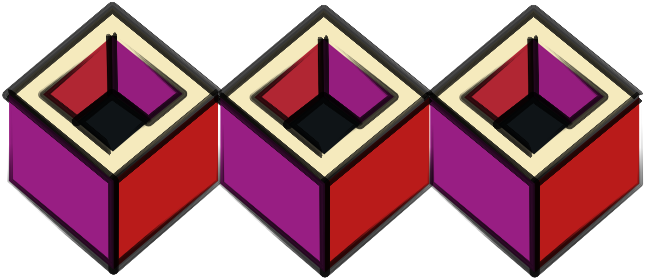
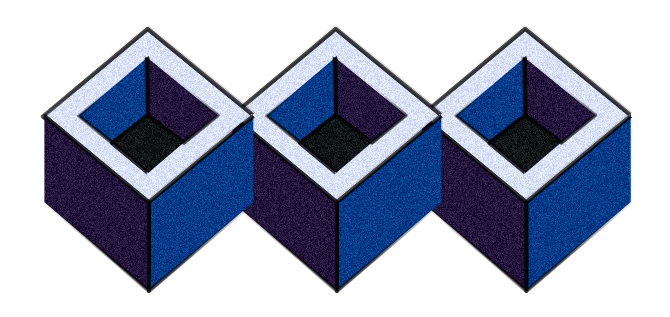
Updates

diff --git a/app/routes/index.tsx b/app/routes/index.tsx
@@ -8,17 +8,12 @@ import { Link, Nav } from "~/components";
 export default function Index() {
   return (
     <div>
-      <img
-        src={Sotim}
-        height="180px"
-        className="h-[180px] w-full origin-bottom object-cover"
-      />
       <Nav />
       <div className="content-container">
-        <h1 className="font-ligh mb-32 font-butler text-8xl font-bold text-primaryText">
+        <h1 className="mb-32 font-butler text-8xl font-bold text-primaryText">
           Hey, good to see you!
         </h1>
-        <section className="mb-48 grid min-h-[580px] grid-cols-[40%_60%] justify-between gap-x-6">
+        <section className="mb-24 grid grid-cols-2 justify-between gap-x-6">
           <div className="flex flex-col items-center justify-center gap-y-14">
             <h2 className="font-butler text-5xl font-light text-casualBlue 2xl:text-6xl">
               👋🏻 I'm Eli and this is my vinyl player. I created 3d model in
@@ -44,64 +39,55 @@ export default function Index() {
           {/*  height="100%"*/}
           {/*></iframe>*/}
         </section>
-        <img
-          src={Cubes}
-          width="180px"
-          className="mx-auto mb-48 2xl:w-[250px]"
-        />
-        <section className="mb-48 w-full rounded-sm bg-primaryText p-24 shadow-xl">
-          <h3 className="mb-14 w-max border-primaryText font-butler text-6xl font-semibold text-blueLight text-white 2xl:text-8xl ">
-            What to do here
-          </h3>
-          <ul className="grid grid-cols-2 items-end gap-10 text-xl">
-            <li>
-              <Link
-                href="/bike"
-                className="group flex h-[300px] rounded-sm bg-bike bg-cover bg-center shadow-xl"
-              >
-                <div className="mt-auto w-full rounded-sm bg-blueLight p-2 p-5 text-primaryText transition group-hover:bg-casualBlue group-hover:text-2xl group-hover:text-blueLight">
-                  Checkout my bike blog
-                </div>
-              </Link>
-            </li>
-            <li>
-              <Link
-                href="/about"
-                className="group flex h-[300px] rounded-sm bg-cubes bg-cover bg-center shadow-xl"
-              >
-                <div className="mt-auto w-full rounded-sm bg-blueLight p-2 p-5 text-primaryText transition group-hover:bg-casualBlue group-hover:text-2xl group-hover:text-blueLight">
-                  Know me better
-                </div>
-              </Link>
-            </li>
-            <li>
-              <Link
-                href="/bike"
-                className="group flex h-[300px] rounded-sm bg-art bg-cover bg-center shadow-xl"
-              >
-                <div className="mt-auto w-full rounded-sm bg-blueLight p-2  p-5 text-primaryText transition group-hover:bg-casualBlue group-hover:text-2xl group-hover:text-blueLight">
-                  Look at my art & projects
-                </div>
-              </Link>
-            </li>
-            <li>
-              <Link
-                href="/bike"
-                className="group flex h-[300px] rounded-sm bg-bikes bg-contain bg-center shadow-xl"
-              >
-                <div className="mt-auto w-full rounded-sm bg-blueLight p-2 p-5 text-primaryText transition group-hover:bg-casualBlue group-hover:text-2xl group-hover:text-blueLight">
-                  Don't go here
-                </div>
-              </Link>
-            </li>
-          </ul>
-        </section>
-        <img
-          src={Cubes}
-          width="180px"
-          className="mx-auto mb-48 2xl:w-[250px]"
-        />
       </div>
+      <section className="mb-48 w-full rounded-sm bg-blueNoise px-44 py-24 shadow-xl">
+        <h3 className="mb-14 w-max border-primaryText font-butler text-6xl font-semibold text-pinkLight 2xl:text-8xl ">
+          What to do here
+        </h3>
+        <ul className="grid grid-cols-2 items-end gap-10 text-xl">
+          <li>
+            <Link
+              href="/bike"
+              className="group flex h-[300px] rounded-sm bg-river bg-cover bg-center shadow-xl"
+            >
+              <div className="mt-auto w-full rounded-sm bg-blueLight p-1 p-3 text-primaryText transition group-hover:bg-casualBlue group-hover:text-blueLight">
+                Checkout my bike blog
+              </div>
+            </Link>
+          </li>
+          <li>
+            <Link
+              href="/about"
+              className="group flex h-[300px] rounded-sm bg-david bg-cover bg-center shadow-xl"
+            >
+              <div className="mt-auto w-full rounded-sm bg-blueLight p-1 p-3 text-primaryText transition group-hover:bg-casualBlue group-hover:text-blueLight">
+                Know me better
+              </div>
+            </Link>
+          </li>
+          <li>
+            <Link
+              href="/bike"
+              className="group flex h-[300px] rounded-sm bg-wall bg-cover bg-center shadow-xl"
+            >
+              <div className="mt-auto w-full rounded-sm bg-blueLight p-2 p-3 text-primaryText transition group-hover:bg-casualBlue group-hover:text-blueLight">
+                Look at my art & projects
+              </div>
+            </Link>
+          </li>
+          <li>
+            <Link
+              href="/bike"
+              className="group flex h-[300px] rounded-sm bg-hourse bg-cover bg-center shadow-xl"
+            >
+              <div className="mt-auto w-full rounded-sm bg-blueLight p-1 p-3 text-primaryText transition group-hover:bg-casualBlue group-hover:text-blueLight">
+                Don't go here
+              </div>
+            </Link>
+          </li>
+        </ul>
+      </section>
+      <img src={Cubes} width="180px" className="mx-auto mb-48 2xl:w-[250px]" />
     </div>
   );
 }

diff --git a/app/components/nav.tsx b/app/components/nav.tsx
@@ -17,41 +17,41 @@ export const Nav = () => {
   const formattedMinute = minute.length === 1 ? `0${minute}` : minute;
 
   return (
-    <div className="mb-28 flex h-[70px] flex-row items-center justify-between bg-neutral-900 py-2 px-24 shadow-sm 2xl:px-44">
-      <nav className="flex h-full flex-row items-center gap-x-2 text-base text-white">
+    <div className="mb-28 flex h-[70px] flex-row items-center justify-between bg-blueNoise bg-contain py-2 px-24 shadow-sm 2xl:px-44">
+      <nav className="flex h-full flex-row items-center gap-x-2 text-base">
         <Link
           href="/"
-          className="flex h-full items-center rounded-md px-2.5 font-normal text-white transition  hover:bg-white hover:font-bold hover:text-black hover:shadow-lg hover:shadow-xl"
+          className="flex h-full items-center rounded-md px-2.5 font-normal text-pinkLight transition  hover:bg-white hover:font-bold hover:text-black hover:shadow-lg hover:shadow-xl"
         >
           <span className="mr-1 inline-block text-base">🏠</span>Home
         </Link>
         <Link
           href="/bike"
-          className="flex h-full items-center rounded-md px-2.5  font-normal text-white transition  hover:bg-white hover:font-bold hover:text-black hover:shadow-lg hover:shadow-xl"
+          className="flex h-full items-center rounded-md px-2.5  font-normal text-pinkLight transition  hover:bg-white hover:font-bold hover:text-black hover:shadow-lg hover:shadow-xl"
         >
           <span className="mr-1 inline-block text-base">🚲</span>Bike Blog
         </Link>
         <Link
           href="/about"
-          className="flex h-full items-center rounded-md px-2.5  font-normal text-white transition  hover:bg-white hover:font-bold hover:text-black hover:shadow-lg hover:shadow-xl"
+          className="flex h-full items-center rounded-md px-2.5  font-normal text-pinkLight transition  hover:bg-white hover:font-bold hover:text-black hover:shadow-lg hover:shadow-xl"
         >
           <span className="mr-1 inline-block text-base">❓</span>What is it?
         </Link>
         <Link
           href="#"
-          className="flex h-full items-center rounded-md px-2.5  font-normal text-white transition  hover:bg-white hover:font-bold hover:text-black hover:shadow-lg hover:shadow-xl"
+          className="flex h-full items-center rounded-md px-2.5  font-normal text-pinkLight transition  hover:bg-white hover:font-bold hover:text-black hover:shadow-lg hover:shadow-xl"
         >
           <span className="mr-1 inline-block text-base">🖼</span>Some art
         </Link>
       </nav>
-      <div className="text-white">
+      <div className="text-pinkLight">
         <span className="font-wremena text-5xl font-bold">
           {time.toLocaleTimeString("en-IL", {
             hour: "2-digit",
             hourCycle: "h23",
             hour12: false,
           })}
-          <span className="animate-ping">:</span>
+          <span className="animate-ping text-pinkLight">:</span>
           {formattedMinute}
         </span>
       </div>

diff --git a/app/routes/bike.tsx b/app/routes/bike.tsx
@@ -12,16 +12,16 @@ import { Outlet } from "@remix-run/react";
 export default function Bike() {
   return (
     <div>
-      <div className="h-[180px] w-full bg-bikes bg-contain bg-repeat"></div>
       <Nav />
       <div className="content-container">
-        <h1 className="mb-32 font-butler text-8xl font-black text-primaryText">
+        <h1 className="mb-24 font-butler text-8xl font-black text-primaryText">
           Bike blog
         </h1>
-        <div className="mb-48 grid grid-cols-[45%_55%] items-center justify-between gap-x-12">
-          <p className="font-butler text-5xl font-light leading-relaxed leading-1.2 text-primaryText">
+        <div className="mb-48 grid grid-cols-2 items-center justify-between gap-x-12">
+          <p className="font-butler text-5xl font-light text-casualBlue 2xl:text-6xl">
             Here is about my bike and stuff related to cycling: my rides, photos
-            and, most interesting, <strong>the upgrading revolution</strong>
+            and, most interesting,{" "}
+            <strong className="font-bold">the upgrading revolution</strong>
           </p>
           <img
             src={BikeCanvas}

diff --git a/app/components/footer.tsx b/app/components/footer.tsx
@@ -2,7 +2,7 @@ import { Link } from "~/components/link";
 import React from "react";
 
 export const Footer = () => (
-  <section className="mt-auto flex h-[600px] bg-poster bg-cover bg-center text-white">
+  <section className="mt-auto flex h-40 bg-blueNoise bg-contain">
     <footer className="mt-auto flex h-40 w-full items-center justify-center gap-x-4 bg-pinkTransp p-6 font-sligoil text-base font-light text-pinkLight backdrop-blur-sm">
       <span>
         Created with ❤ with{" "}

diff --git a/tailwind.config.js b/tailwind.config.js
@@ -11,6 +11,12 @@ module.exports = {
         bikes: "url('/bikes.jpg')",
         bike: "url(/bike.jpg)",
         art: "url(/proj.jpg)",
+        blueNoise: "url(/blue-noise.png)",
+        river: "url(/river.jpg)",
+        david: "url(/david.jpg)",
+        hourse: "url(/hourse.jpg)",
+        wall: "url(/wall.jpg)",
+        nav: "url(/nav.png)",
       },
       borderWidth: {
         30: "30px",
